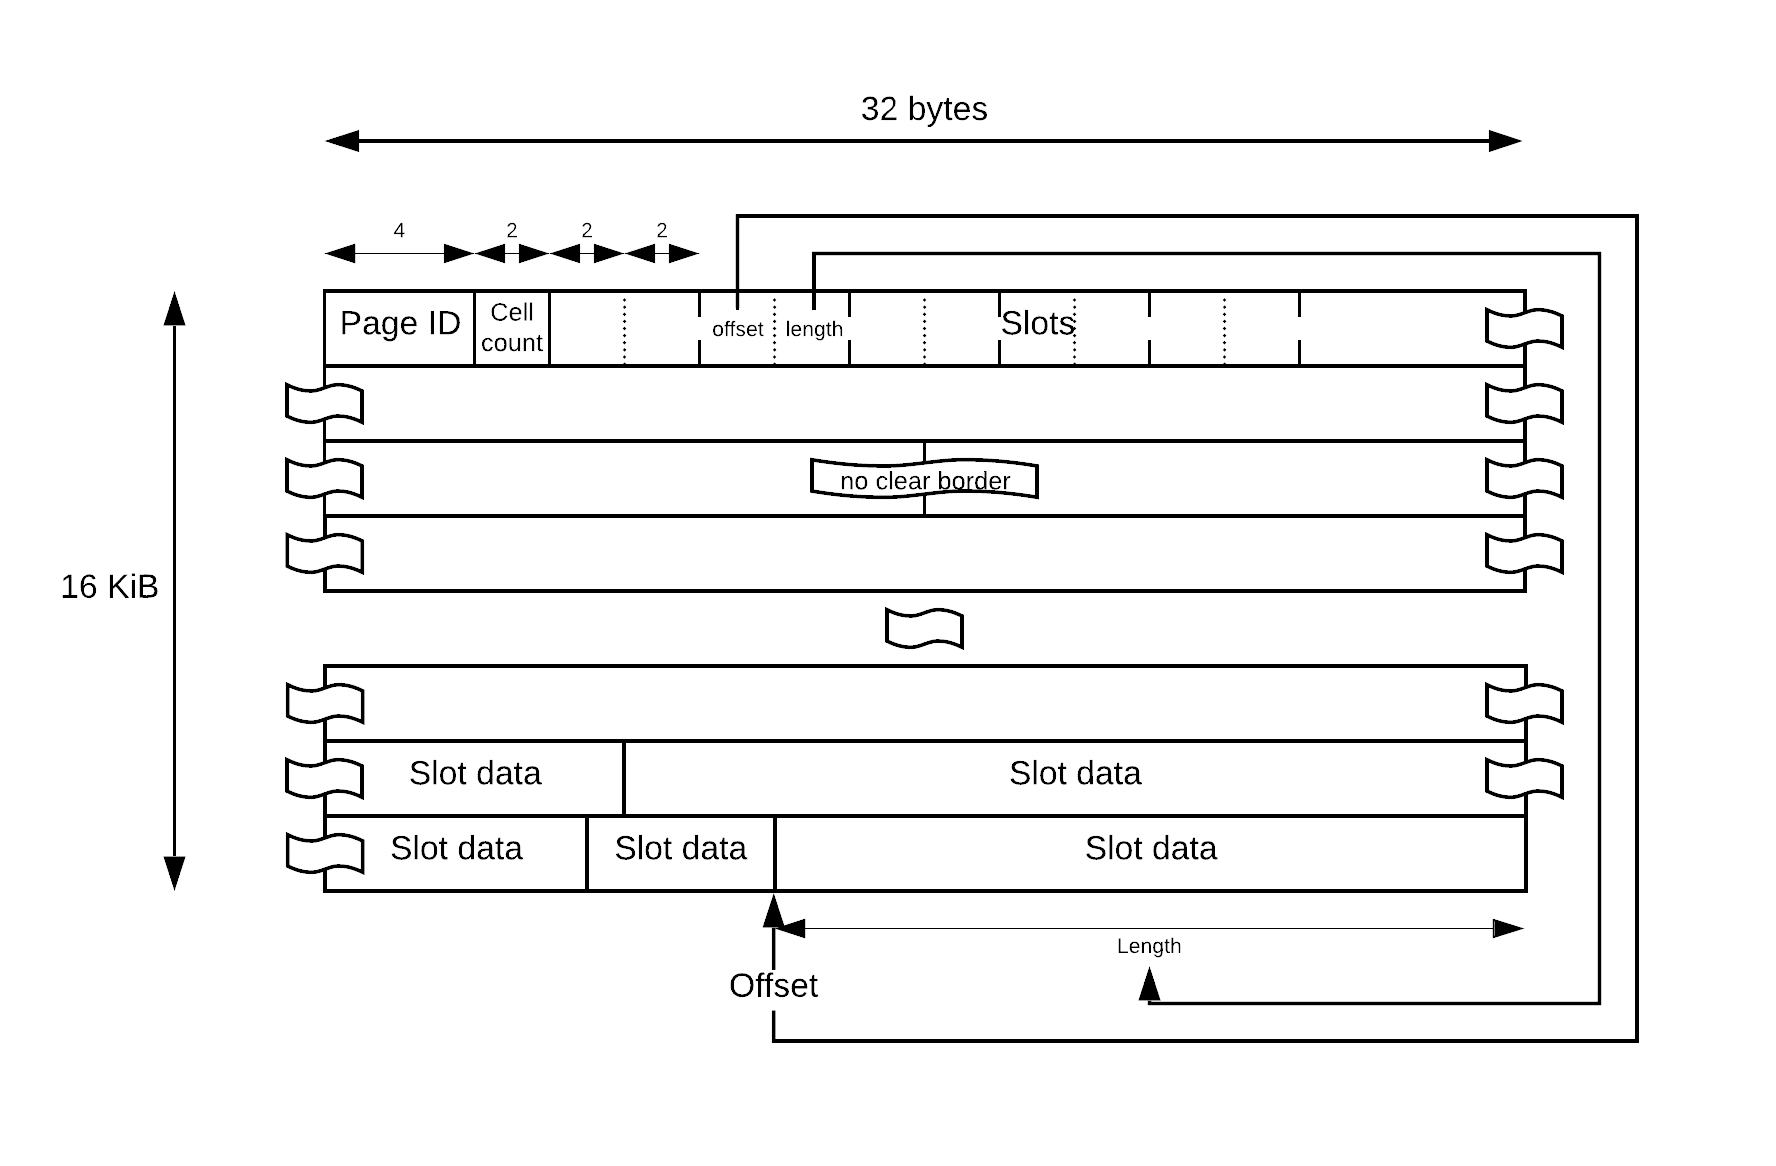
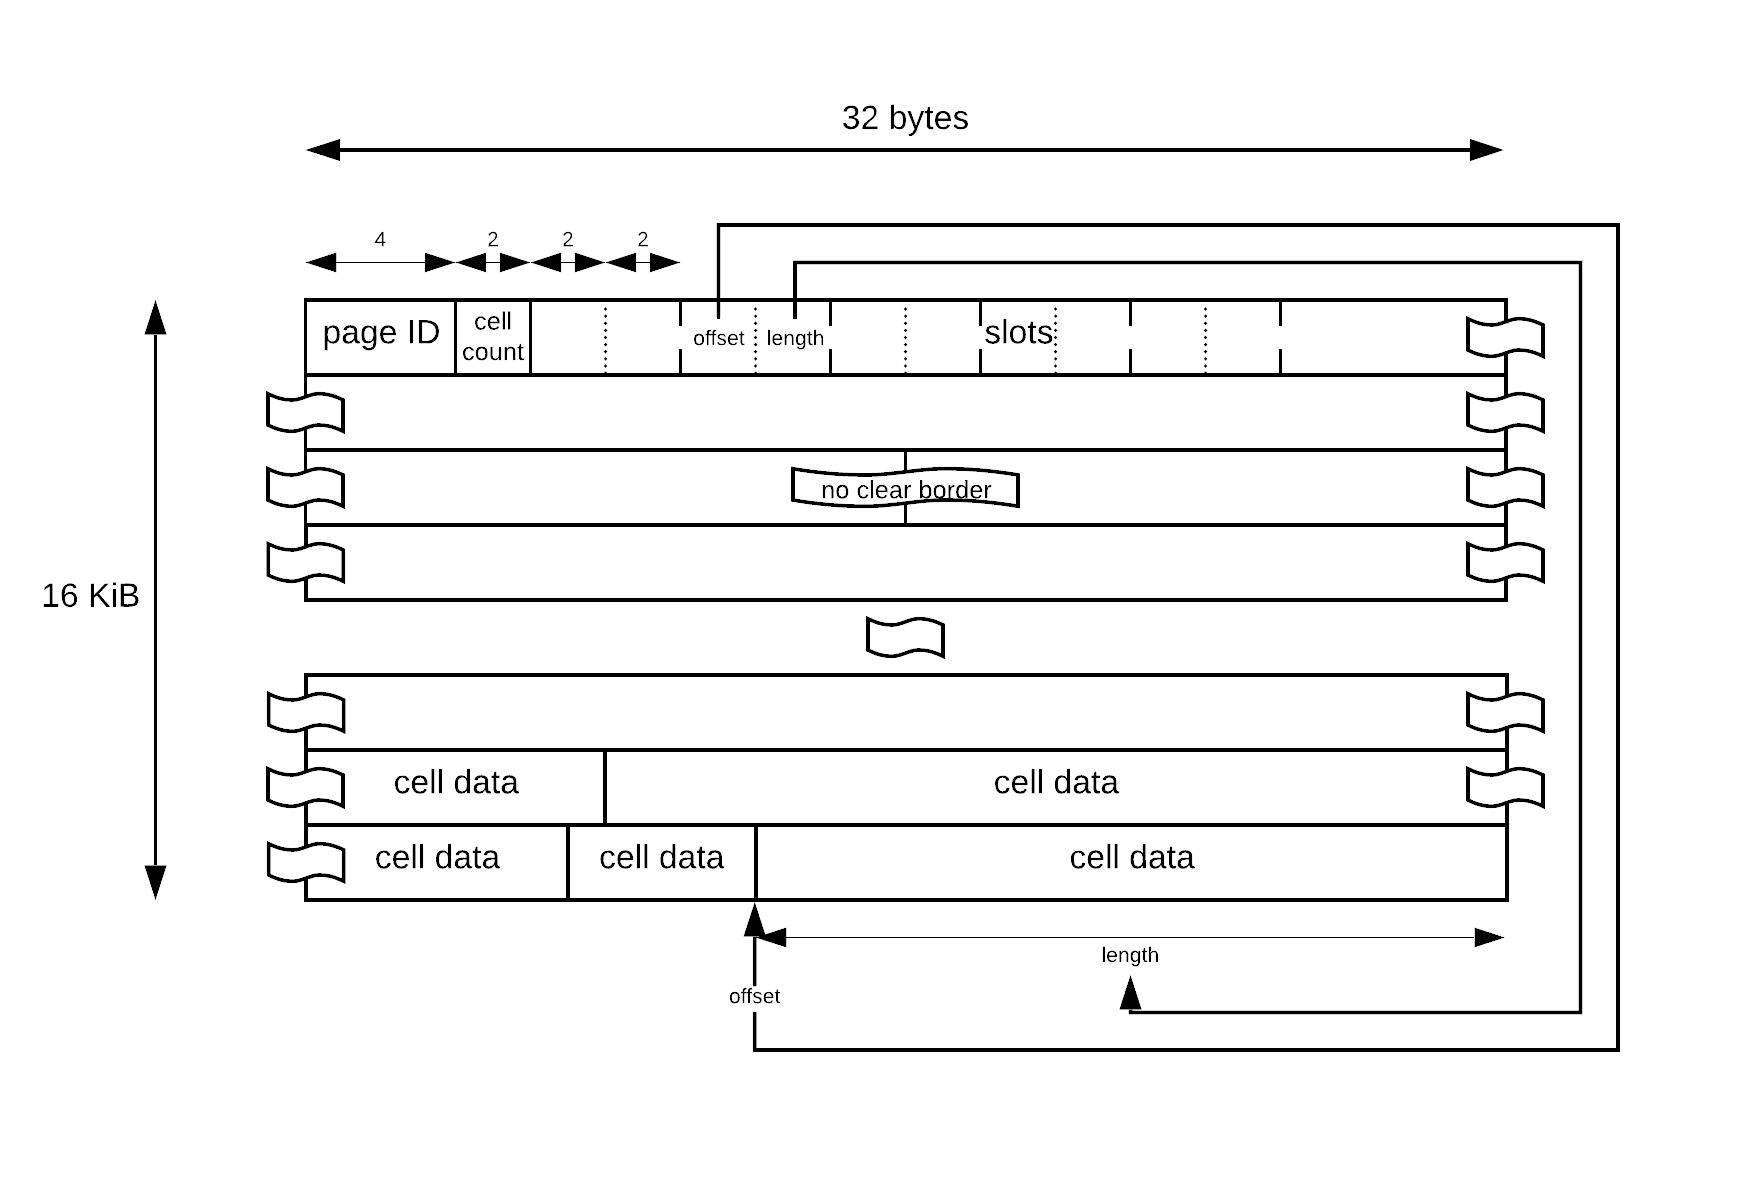
Add info about cells

diff --git a/doc/page.md b/doc/page.md
@@ -1,10 +1,16 @@
 # Page layout
-This document describes the layout and format of a single memory page. All pages are
-structured like this.
+This document describes the layout and format of a single memory page. All pages
+are structured like this.
+
+**Please note:** "2 bytes indicating a length" implies, that these two bytes,
+interpreted as **big endian** encoded **unsigned two byte integer** indicate
+said length. In other words, whenever we talk about bytes forming some kind of
+number, it is always the big endian encoding of an integer, either 2, 4 or 8
+bytes.
 
 ## Page format
-Pages implement the concept of slotted pages. A helpful
-resource for understanding is
+Pages implement the concept of slotted pages. A helpful resource for
+understanding is
 [this](https://db.in.tum.de/teaching/ss17/moderndbs/chapter3.pdf#page=8) PDF.
 Please note though, that we do not follow the exact data structure that is
 proposed in that file.
@@ -21,10 +27,22 @@ without that header field. The **next 2 bytes** represent the cell count in this
 page. This is the amount of slots that occur after the header, and is updated
 with every call to `storeCell`.
 
-After the header, in **4 byte chunks**, slots are defined. A slot points to an absolute offset within the page, and holds a size attribute. The **first 2 bytes** are the offset, the **second 2 bytes** are the size.
+After the header, in **4 byte chunks**, slots are defined. A slot points to an
+absolute offset within the page, and holds a size attribute. The **first 2
+bytes** are the offset, the **second 2 bytes** are the size.
 
 Between slots and data, there is free space. This is the space, where new cells
-(slots on the left, and data on the right) will be inserted.
-Slots are always **sorted by the key of the cell that they point to**.
+(slots on the left, and data on the right) will be inserted. Slots are always
+**sorted by the key of the cell that they point to**.
+
+A single "slot data" is a full cell, as described [below](#cell-format).
 
 ## Cell format
+Cells are simple key-value entities.
+
+![Cell Structure](./cell_v1.png)
+
+The above image describes the layout of a cell. A cell contains of a single key
+and a single value, which is called the record. Both in front of the key and in
+front of the record, there are **2 bytes** indicating the length of the key
+respectively the record.
